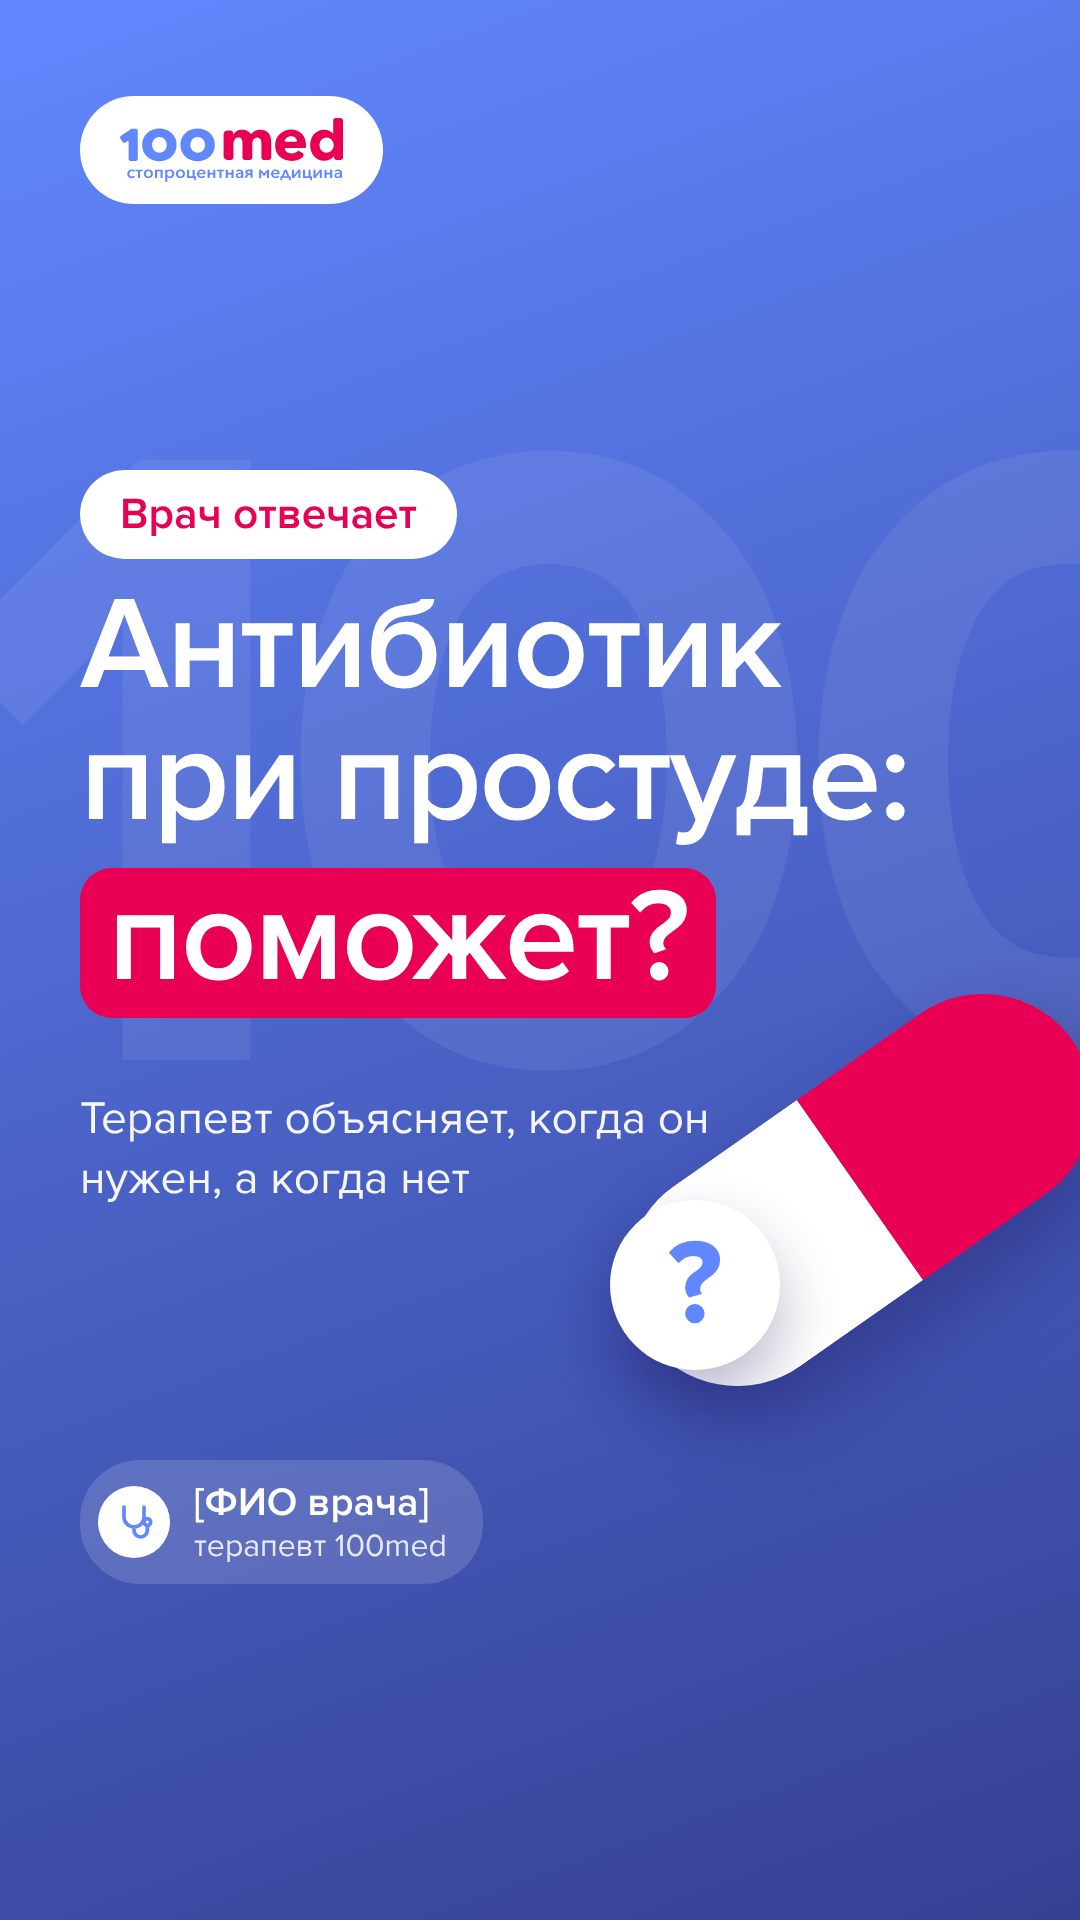
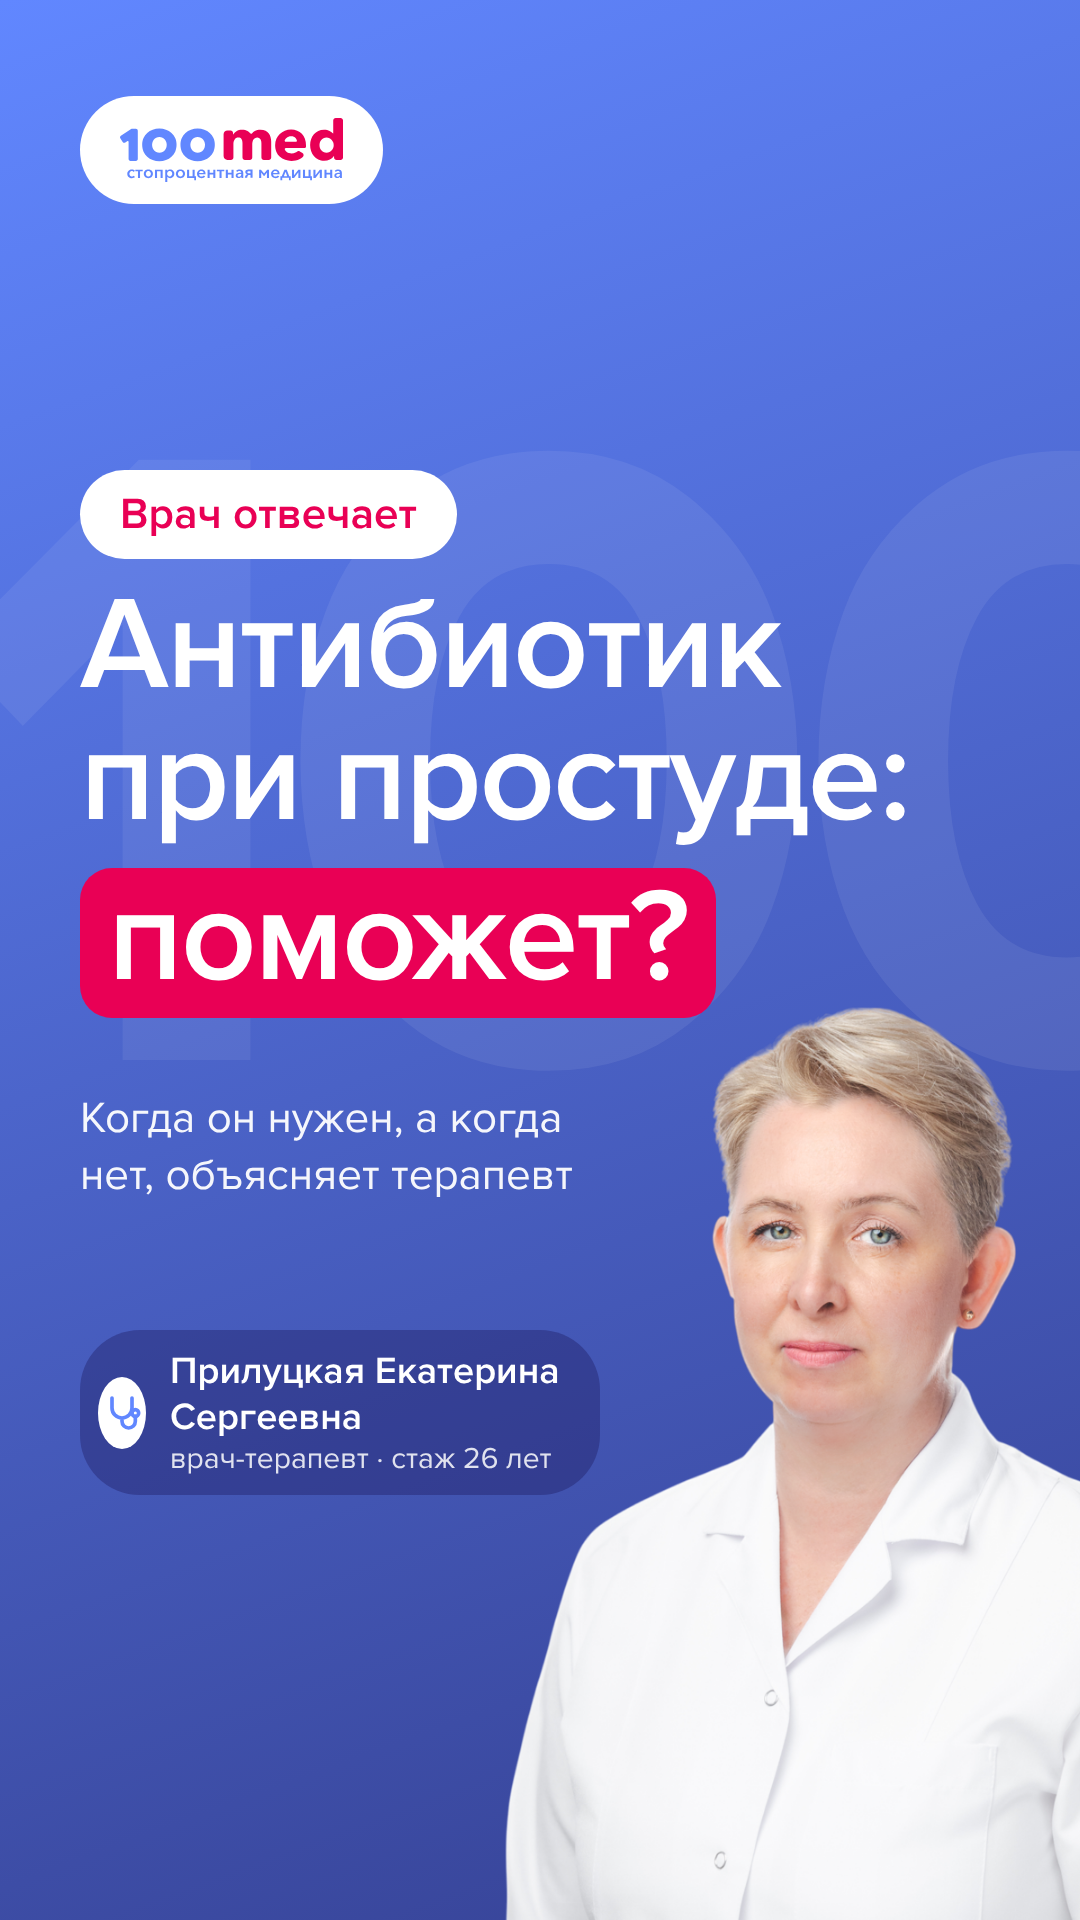
Обложка видео: фото и данные терапевта Прилуцкой Е.С. с сайта, список терапевтов в материалах поста
Claude-Session: https://claude.ai/code/session_01PviFTtVjxPCTJ7UwyfDAbn

Changed region(s): [[0.0611, 0.5, 1.0, 1.0]]

diff --git a/design/telegram-antibiotiki/cover.html b/design/telegram-antibiotiki/cover.html
@@ -12,25 +12,28 @@ body{font-family:PN,Arial,sans-serif;background:#999}
 .logo img{height:64px;display:block}
 .wm{position:absolute;font-weight:700;font-size:900px;line-height:1;color:rgba(255,255,255,.07);left:-60px;top:330px;letter-spacing:-40px}
 .badge{position:absolute;top:470px;left:80px;background:#fff;color:var(--pink);font-weight:600;font-size:44px;padding:18px 40px;border-radius:60px}
-h1{position:absolute;top:580px;left:80px;right:80px;font-weight:600;font-size:132px;line-height:1.0;letter-spacing:-2px}
+h1{z-index:2;position:absolute;top:580px;left:80px;right:80px;font-weight:600;font-size:132px;line-height:1.0;letter-spacing:-2px}
 h1 span{display:inline-block;margin-top:24px;color:#fff;background:var(--pink);border-radius:32px;padding:4px 28px 14px;line-height:1}
-.sub{position:absolute;top:1090px;left:80px;right:300px;font-size:46px;line-height:1.3;opacity:.95}
+.sub{position:absolute;top:1090px;left:80px;right:500px;z-index:2;font-size:44px;line-height:1.3;opacity:.95}
+.photo{position:absolute;right:-250px;bottom:0;height:960px;z-index:1}
+.glow{position:absolute;right:-200px;bottom:250px;width:820px;height:820px;border-radius:50%;background:rgba(255,255,255,.12)}
+.doc{z-index:2}
 /* иллюстрация: капсула */
 .capsule{position:absolute;right:-40px;top:1080px;width:520px;height:220px;border-radius:110px;transform:rotate(-35deg);display:flex;overflow:hidden;box-shadow:0 40px 80px rgba(27,20,85,.35)}
 .capsule div{flex:1}.capsule .a{background:#fff}.capsule .b{background:var(--pink)}
 .capsule:after{content:"";position:absolute;left:40px;top:34px;width:180px;height:36px;border-radius:20px;background:rgba(255,255,255,.55)}
 .q{position:absolute;right:300px;top:1200px;width:170px;height:170px;border-radius:50%;background:#fff;color:var(--blue);font-weight:700;font-size:120px;display:flex;align-items:center;justify-content:center;box-shadow:0 30px 60px rgba(27,20,85,.3)}
-.doc{position:absolute;left:80px;top:1460px;display:flex;align-items:center;gap:24px;background:rgba(255,255,255,.15);border-radius:60px;padding:18px 36px 18px 18px}
+.doc{position:absolute;left:80px;top:1330px;max-width:520px;background:rgba(27,20,85,.35)!important;display:flex;align-items:center;gap:24px;background:rgba(255,255,255,.15);border-radius:60px;padding:18px 36px 18px 18px}
 .doc i{width:72px;height:72px;border-radius:50%;background:#fff;display:flex;align-items:center;justify-content:center}
-.doc b{font-weight:600;font-size:40px;display:block}.doc small{font-size:32px;opacity:.85}
+.doc b{font-weight:600;font-size:38px;display:block}.doc small{font-size:30px;opacity:.85}
 </style></head><body>
 <div id="cover">
 <div class="wm">100</div>
 <div class="logo"><img src="logo.svg"></div>
 <div class="badge">Врач отвечает</div>
 <h1>Антибиотик при простуде: <span>поможет?</span></h1>
-<div class="sub">Терапевт объясняет, когда он нужен, а когда нет</div>
-<div class="capsule"><div class="a"></div><div class="b"></div></div>
-<div class="q">?</div>
-<div class="doc"><i><svg width="40" height="40" viewBox="0 0 24 24" fill="none" stroke="#6187FF" stroke-width="2.2" stroke-linecap="round"><path d="M6 3v6a6 6 0 0 0 12 0V3M12 15v2a4 4 0 0 0 8 0v-3"/><circle cx="20" cy="12" r="2"/></svg></i><div><b>[ФИО врача]</b><small>терапевт 100med</small></div></div>
+<div class="sub">Когда он нужен, а когда нет, объясняет терапевт</div>
+<img class="photo" src="doctor-prilutskaya.png">
+
+<div class="doc"><i><svg width="40" height="40" viewBox="0 0 24 24" fill="none" stroke="#6187FF" stroke-width="2.2" stroke-linecap="round"><path d="M6 3v6a6 6 0 0 0 12 0V3M12 15v2a4 4 0 0 0 8 0v-3"/><circle cx="20" cy="12" r="2"/></svg></i><div><b>Прилуцкая Екатерина Сергеевна</b><small>врач-терапевт · стаж 26 лет</small></div></div>
 </div></body></html>

diff --git a/content/telegram/2026-11-antibiotiki-pri-prostude.md b/content/telegram/2026-11-antibiotiki-pri-prostude.md
@@ -27,9 +27,9 @@
 • появились одышка, боль в груди, сильная боль в ухе или горле;
 • болеет ребёнок до года, пожилой человек или человек с хроническими заболеваниями.
 
-Сомневаетесь? Спросите врача-терапевта 100med: на приёме в клинике или онлайн, не выходя из дома.
+Сомневаетесь? Спросите врача-терапевта 100med, например Екатерину Сергеевну Прилуцкую (стаж 26 лет, клиника в Люберцах): на приёме в клинике или онлайн, не выходя из дома.
 
-👉 [Записаться онлайн](https://100med.ru/appointment/?utm_source=telegram&utm_medium=social&utm_campaign=vrach_otvechaet&utm_content=tg_antibiotiki_01)
+👉 [Записаться онлайн](https://100med.ru/directions/terapevt/?utm_source=telegram&utm_medium=social&utm_campaign=vrach_otvechaet&utm_content=tg_antibiotiki_01)
 📞 [подменный номер канала]
 
 А вы когда-нибудь пили антибиотик «на всякий случай»? Поделитесь в комментариях 👇
@@ -64,7 +64,7 @@ _Материал носит информационный характер и н
 | Таймкод | Видеоряд | Текст на экране | Голос/реплика | SFX/музыка |
 |---|---|---|---|---|
 | 0:00–0:03 | Крупно: рука берёт блистер из домашней аптечки, резкий стоп-кадр | «Антибиотик при простуде: поможет?» | (за кадром) «Простыли — и сразу за антибиотиком?» | Щелчок блистера, старт лёгкого бита |
-| 0:03–0:07 | Врач-терапевт в кабинете 100med, средний план. Титр-пилюля | [ФИО], терапевт, стаж [N] лет | «Давайте разберёмся, когда он действительно нужен». | Бит |
+| 0:03–0:07 | Врач-терапевт в кабинете 100med, средний план. Титр-пилюля | Прилуцкая Екатерина Сергеевна, врач-терапевт, стаж 26 лет | «Давайте разберёмся, когда он действительно нужен». | Бит |
 | 0:07–0:13 | Графика: слева «вирус», справа «бактерия», антибиотик «отскакивает» от вируса | «Вирус ≠ бактерия» | «Простуда и грипп чаще всего вызваны вирусами. А антибиотики действуют только на бактерии». | Whoosh на анимации |
 | 0:13–0:21 | Врач, крупный план; поверх появляются 3 пункта | 1. Не ускорит выздоровление 2. Побочные эффекты 3. Устойчивость бактерий | «Если пить их „на всякий случай“, быстрее не станет, а побочные эффекты и устойчивость бактерий — вполне реальны». | Тик на каждом пункте |
 | 0:21–0:27 | B-roll: врач осматривает горло (пациент без лица / актёр), фонендоскоп | «Нужен ли антибиотик — решает врач» | «Антибиотик нужен, если присоединилась бактериальная инфекция. Это определяет врач на осмотре». | Мягкий пэд |
@@ -75,6 +75,22 @@ _Материал носит информационный характер и н
 
 ---
 
+## Врачи-терапевты 100med (с сайта 100med.ru/directions/terapevt/, на 23.11.2026)
+
+**Спикер ролика и лицо обложки:** Прилуцкая Екатерина Сергеевна — врач-терапевт, стаж 26 лет, клиника в Люберцах. https://100med.ru/doctors/prilutskaja-ekaterina-sergeevna/
+
+Запасные спикеры (если Екатерина Сергеевна недоступна для съёмки):
+
+| Врач | Специальность | Стаж | Клиника |
+|---|---|---|---|
+| [Фомченков Игорь Витольдович](https://100med.ru/doctors/fomchenkov-igor-vitoldovich/) | врач-терапевт | 33 года | Люберцы |
+| [Ситников Николай Евгеньевич](https://100med.ru/doctors/sitnikov-nikolay-evgenevich/) | врач-терапевт, гастроэнтеролог | 16 лет | Ухтомская, Люберцы |
+| [Езерская Олеся Владимировна](https://100med.ru/doctors/ezerskaya-olesya-vladimirovna/) | врач-терапевт, ревматолог | 12 лет | Люберцы |
+| [Иванникова Светлана Владимировна](https://100med.ru/doctors/ivannikova-svetlana-vladimirovna/) | врач-терапевт, кардиолог ВКК | 21 год | Люберцы |
+| [Малашкин Игорь Михайлович](https://100med.ru/doctors/malashkin-igor-mikhaylovich/) | врач-терапевт, гастроэнтеролог | 41 год | Лыткарино |
+| [Касымова Сабина Исмаиловна](https://100med.ru/doctors/kasymova-sabina-ismailovnaa/) | врач-терапевт | 3 года | Ухтомская |
+| [Болос Нина Прокофьевна](https://100med.ru/doctors/bolos-nina-prokofevna/) | врач-терапевт ВКК | 44 года | Кашин, Кесова Гора |
+
 ## Чек-лист
 - [x] Хук в первой строке / первых 3 секундах
 - [x] CTA «Записаться онлайн»
@@ -83,4 +99,5 @@ _Материал носит информационный характер и н
 - [ ] ERID: пост информационный; если пойдёт как реклама или посев, нужны маркировка «Реклама», рекламодатель и `[ERID]`
 - [x] UTM на ссылке
 - [ ] Подменный номер Calltouch для Telegram: вставить вместо `[подменный номер канала]`
-- [ ] Медицинская вычитка текста терапевтом 100med перед публикацией
+- [ ] Медицинская вычитка текста терапевтом 100med перед публикацией (лучше спикером — Прилуцкой Е.С.)
+- [ ] Согласовать с врачом использование фото и участие в съёмке
